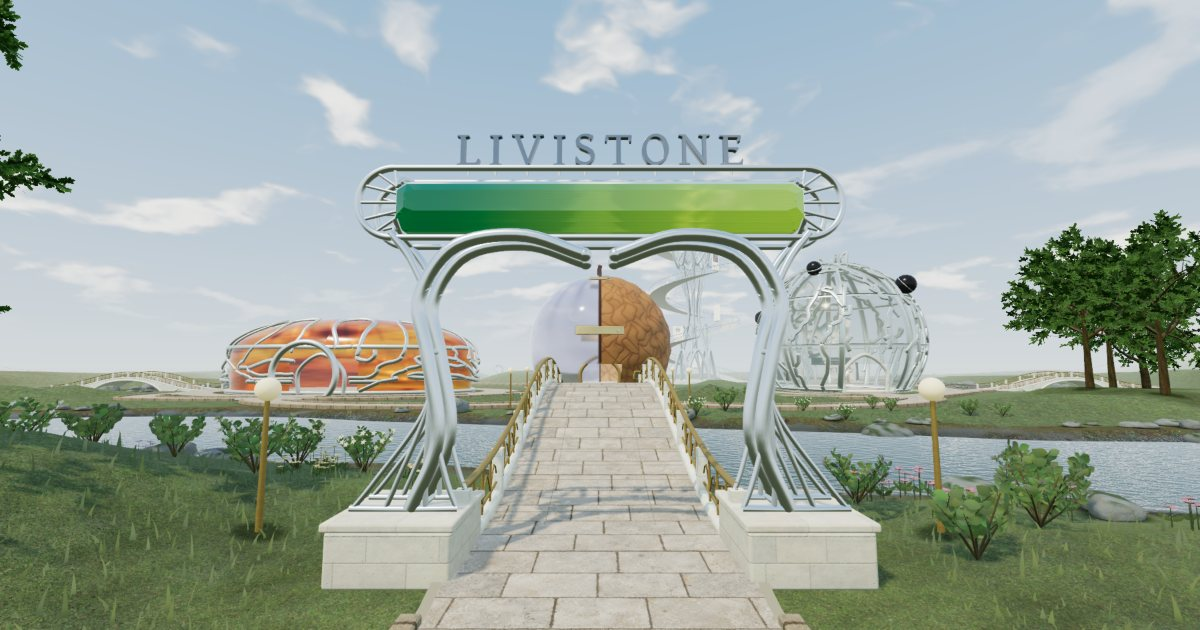
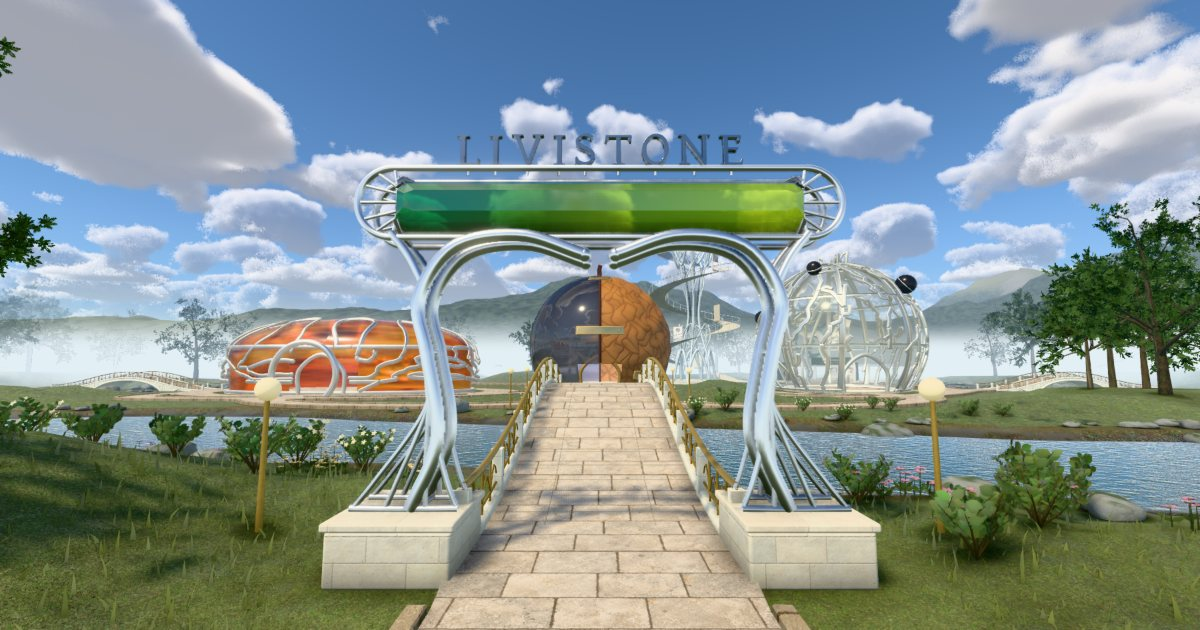
Regenerate the share card and loading backdrops: physical sky, distant ranges, haze and the station round 2

diff --git a/docs/realism/NEXT.md b/docs/realism/NEXT.md
@@ -22,7 +22,6 @@ From the plateau (stand at `(-26, -258)` facing south, the `plateau-view` captur
 
 - Run the full suite on both backends on a quiet machine (the WebGL 2 fallback's post and night specs now allow 240 s, with the reason in each spec).
 - Physical devices, Safari 26 (macOS, iOS), Firefox and an Android phone remain untested.
-- Regenerate the share images (`bun scripts/build-share-images.ts`): the arrival path changed (station, haze).
 
 ### 4. Parked work (task 7)
 
